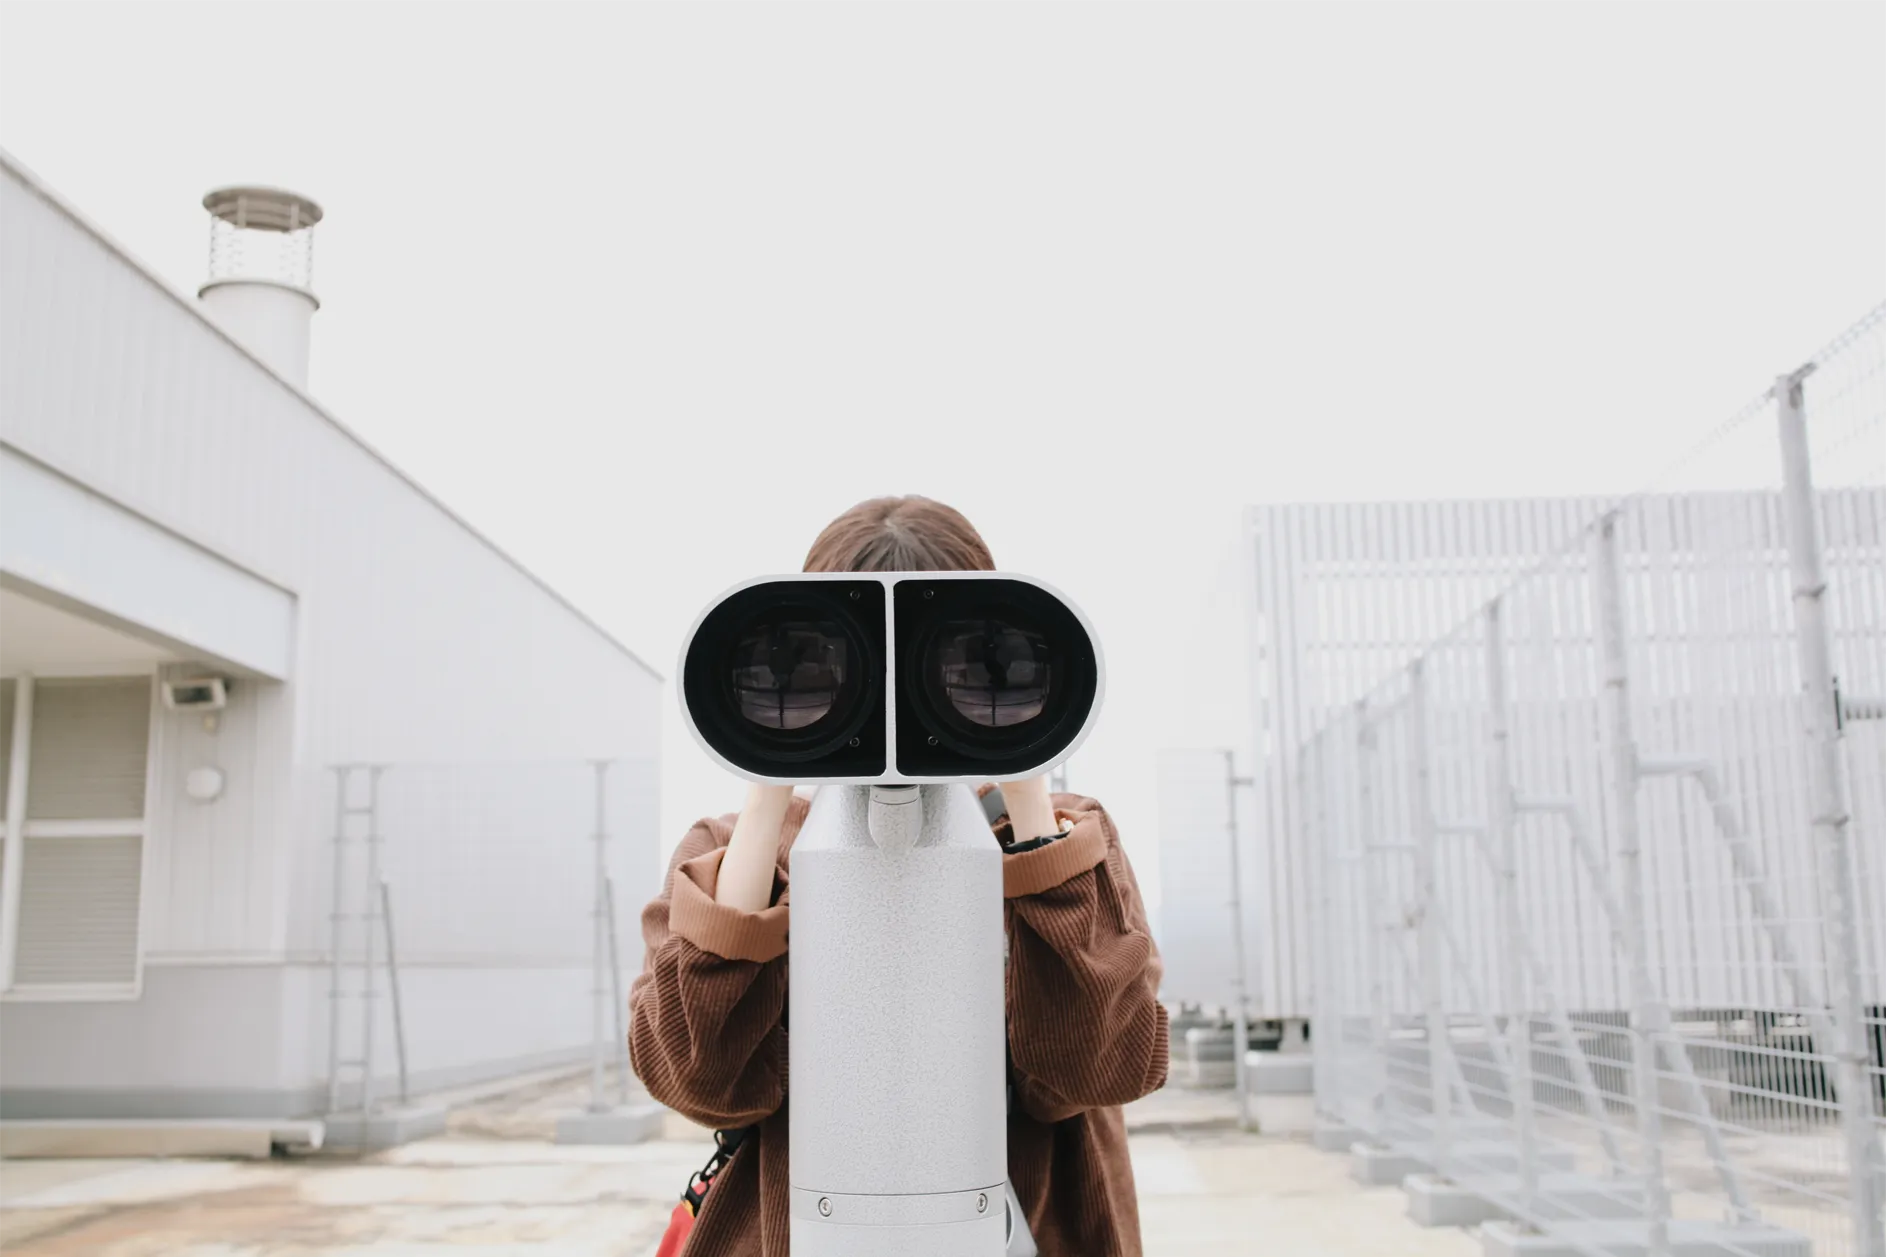
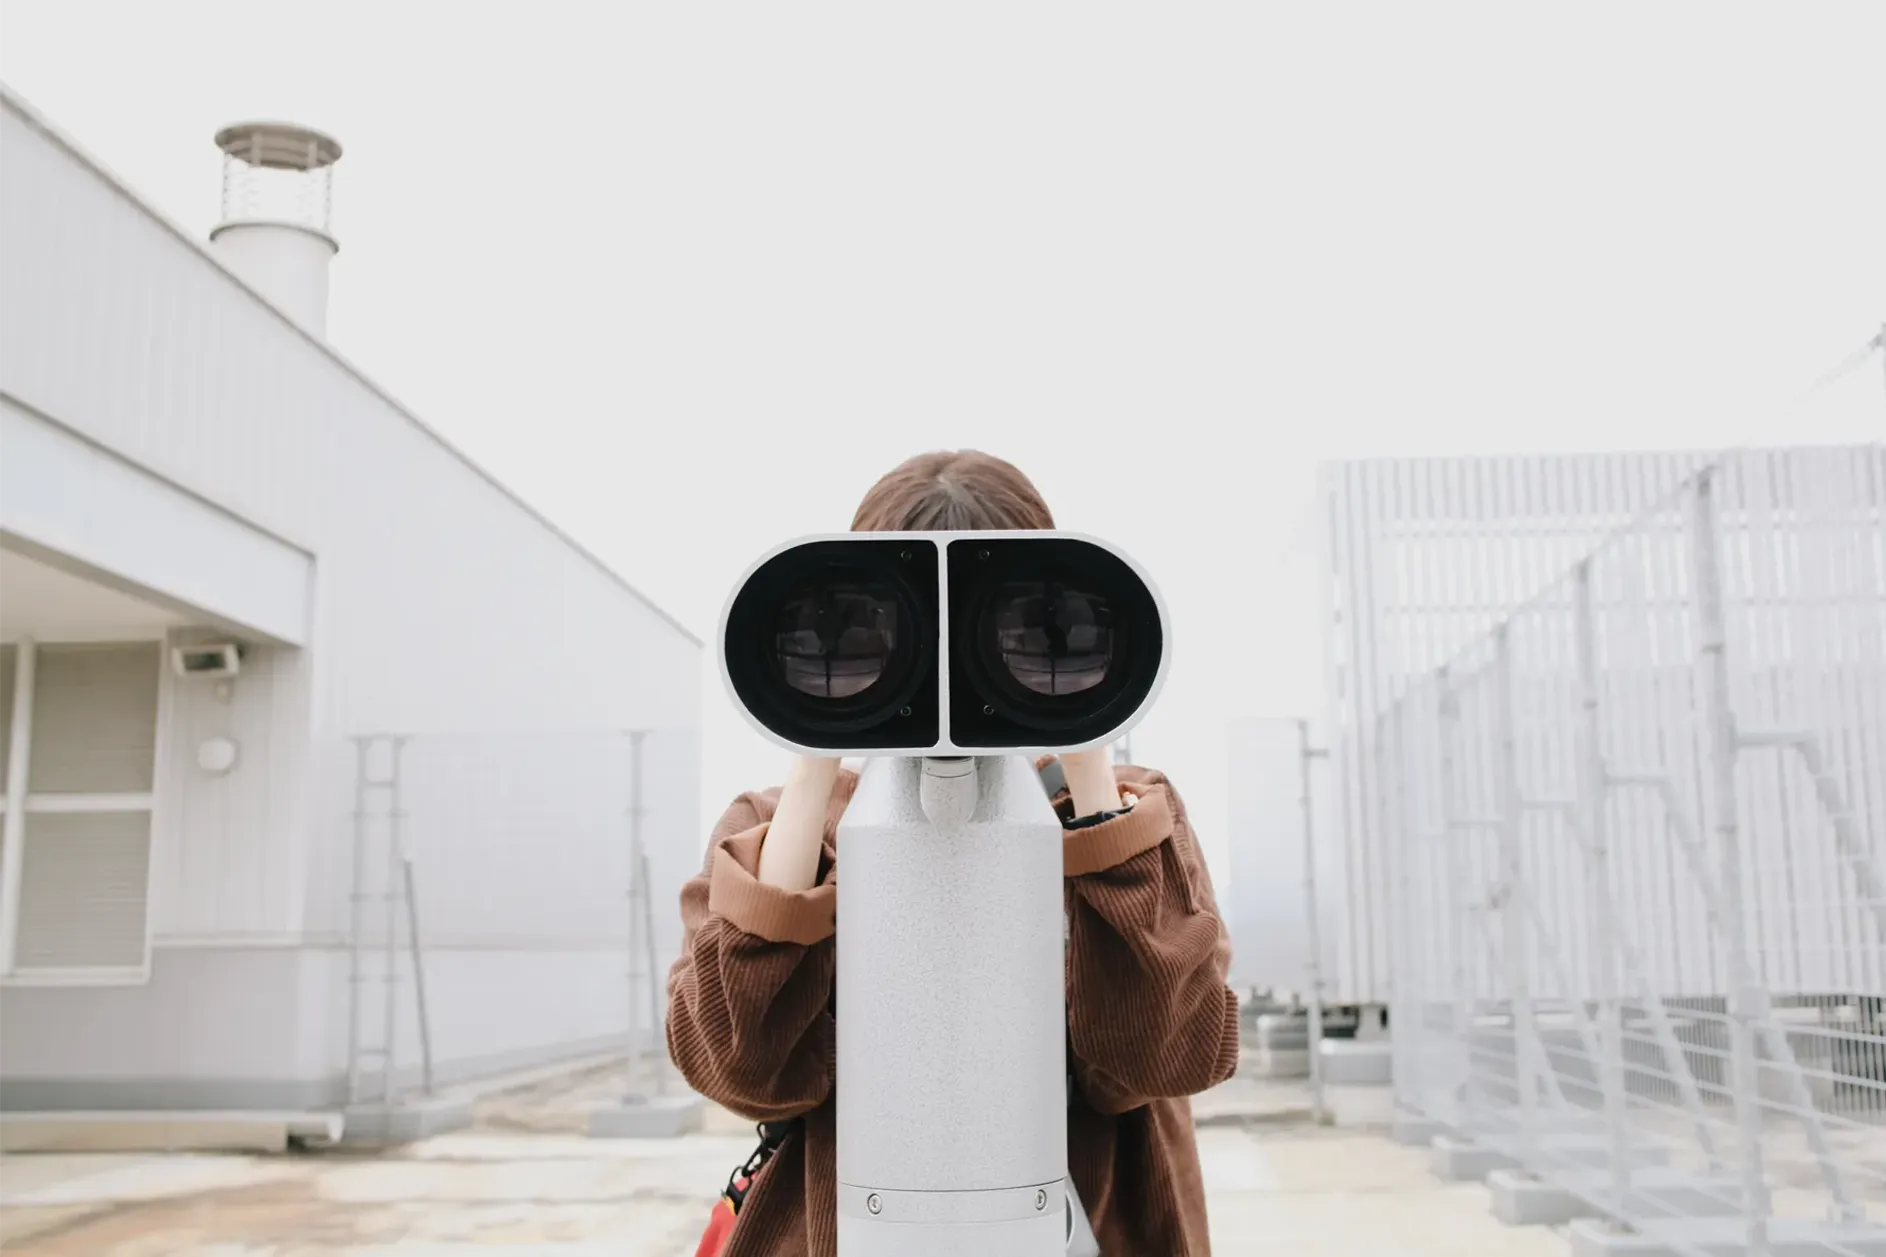
9/28

diff --git a/photo-site/portrait-sub.html b/photo-site/portrait-sub.html
@@ -3,13 +3,13 @@
 <head>
   <meta charset="utf-8">
   <meta name="viewport" content="width=device-width, initial-scale=1.0">
-  <meta name="description" content="町や自然などのスナップをまとめたページです。">
+  <meta name="description" content="ポートレートをまとめたページです。">
   <link rel="icon" href="img/logo.webp">
   <link href="https://fonts.googleapis.com/icon?family=Material+Icons+Outlined" rel="stylesheet">
   
-  <title>Snap | bito.photo</title>
+  <title>Portrait | bito.photo</title>
 
-  <!-- フォントの指定 -->
+   <!-- フォントの指定 -->
   <link rel="preconnect" href="https://fonts.googleapis.com">
   <link rel="preconnect" href="https://fonts.gstatic.com" crossorigin>
   <link href="https://fonts.googleapis.com/css2?family=Poppins:wght@400;500;700&family=Zen+Maru+Gothic:wght@400;500;700&display=swap" rel="stylesheet">
@@ -44,110 +44,136 @@
     <!-- メインコンテンツ -->
     <main class="content">
       <section class="photo-gallery container blur-in">
-        
-       
+
+    
+               <!-- 1 -->
         <div class="photo-grid grid-1col">
           <div class="photo-item">
-            <img src="img/snap/snap-01.webp" alt="スナップ写真1">
+            <img src="img/snb/portrait-01.webp" alt="写真1">
           </div>
         </div>
 
-        <div class="photo-grid grid-2col">
+  <!-- 14 かのこ-->
+     <div class="photo-grid grid-2col">
           <div class="photo-item">
-            <img src="img/snap/snap-02.webp" alt="スナップ写真2">
+            <img src="img/snb/portrait-26.webp" alt="写真1">
           </div>
           <div class="photo-item">
-            <img src="img/snap/snap-03.webp" alt="スナップ写真3">
-          </div>
-        </div>
-
-           <div class="photo-grid grid-1col">
-          <div class="photo-item">
-            <img src="img/snap/snap-04.webp" alt="スナップ写真4">
-          </div>
-        </div>
-         
-        <div class="photo-grid grid-1col">
-          <div class="photo-item">
-            <img src="img/snap/snap-05.webp" alt="スナップ写真5">
-          </div>
-        </div>
-
-        <div class="photo-grid grid-2col">
-          <div class="photo-item">
-            <img src="img/snap/snap-06.webp" alt="スナップ写真6">
-          </div>
-          <div class="photo-item">
-            <img src="img/snap/snap-07.webp" alt="スナップ写真7">
+            <img src="img/snb/portrait-27.webp" alt="写真2">
           </div>
         </div>
       
+<!-- 2 　けいたルーザー-->
         <div class="photo-grid grid-2col">
           <div class="photo-item">
-            <img src="img/snap/snap-08.webp" alt="スナップ写真8">
+            <img src="img/snb/portrait-05.webp" alt="写真1">
           </div>
           <div class="photo-item">
-            <img src="img/snap/snap-09.webp" alt="スナップ写真9">
+            <img src="img/snb/portrait-04.webp" alt="写真2">
           </div>
         </div>
-        
+         <!-- あきら桜子-->
         <div class="photo-grid grid-1col">
           <div class="photo-item">
-            <img src="img/snap/snap-10.webp" alt="スナップ写真10">
+            <img src="img/snb/portrait-09.webp" alt="写真1">
           </div>
         </div>
 
+
+        <!-- 桜子花 -->
+       <div class="photo-grid grid-2col">
+          <div class="photo-item">
+            <img src="img/snb/portrait-10.webp" alt="写真1">
+          </div>
+          <div class="photo-item">
+            <img src="img/snb/portrait-11.webp" alt="写真2">
+          </div>
+        </div>
+
+        <!-- さくらこみずべ -->
           <div class="photo-grid grid-1col">
           <div class="photo-item">
-            <img src="img/snap/snap-11.webp" alt="スナップ写真11">
-          </div>
-        </div>
-   
-        <div class="photo-grid grid-2col">
-          <div class="photo-item">
-            <img src="img/snap/snap-12.webp" alt="スナップ写真12">
-          </div>
-          <div class="photo-item">
-            <img src="img/snap/snap-13.webp" alt="スナップ写真13">
+            <img src="img/snb/portrait-12.webp" alt="写真1">
           </div>
         </div>
 
-             <div class="photo-grid grid-1col">
+       <div class="photo-grid grid-2col">
           <div class="photo-item">
-            <img src="img/snap/snap-14.webp" alt="スナップ写真18">
+            <img src="img/snb/portrait-13.webp" alt="写真1">
+          </div>
+          <div class="photo-item">
+            <img src="img/snb/portrait-14.webp" alt="写真2">
           </div>
         </div>
-         
-          <div class="photo-grid grid-2col">
+     <!-- かな紅葉 -->
+     <div class="photo-grid grid-2col">
           <div class="photo-item">
-            <img src="img/snap/snap-15.webp" alt="スナップ写真12">
+            <img src="img/snb/portrait-19.webp" alt="写真1">
           </div>
           <div class="photo-item">
-            <img src="img/snap/snap-16.webp" alt="スナップ写真13">
+            <img src="img/snb/portrait-20.webp" alt="写真2">
+          </div>
+        </div>
+         <!-- 田村さん-->
+        <div class="photo-grid grid-1col">
+          <div class="photo-item">
+            <img src="img/snb/portrait-15.webp" alt="写真1">
           </div>
         </div>
 
-             <div class="photo-grid grid-1col">
+<!-- 桜子みどり -->
+     <div class="photo-grid grid-2col">
           <div class="photo-item">
-            <img src="img/snap/snap-17.webp" alt="スナップ写真18">
+            <img src="img/snb/portrait-16.webp" alt="写真1">
+          </div>
+          <div class="photo-item">
+            <img src="img/snb/portrait-17.webp" alt="写真2">
           </div>
         </div>
-        
+ <!-- 眩しい顔-->
+        <div class="photo-grid grid-1col">
+          <div class="photo-item">
+            <img src="img/snb/portrait-18.webp" alt="写真1">
+          </div>
+        </div>
 
-        
-             <div class="photo-grid grid-1col">
+
+        <!-- けいた葛巻 -->
+     <div class="photo-grid grid-2col">
           <div class="photo-item">
-            <img src="img/snap/snap-18.webp" alt="スナップ写真18">
+            <img src="img/snb/portrait-22.webp" alt="写真1">
+          </div>
+          <div class="photo-item">
+            <img src="img/snb/portrait-23.webp" alt="写真2">
           </div>
         </div>
-        
-   
-   
+    <!-- なおきくん東京 -->
+     <div class="photo-grid grid-2col">
+          <div class="photo-item">
+            <img src="img/snb/portrait-24.webp" alt="写真1">
+          </div>
+          <div class="photo-item">
+            <img src="img/snb/portrait-25.webp" alt="写真2">
+          </div>
+        </div>
+           <!-- こーのすけぜん -->
+      <div class="photo-grid grid-1col">
+          <div class="photo-item">
+            <img src="img/snb/portrait-06.webp" alt="写真1">
+          </div>
+        </div>
+        <!-- 修平傘-->
+        <div class="photo-grid grid-1col">
+          <div class="photo-item">
+            <img src="img/snb/portrait-21.webp" alt="写真1">
+          </div>
+        </div>
+      
       </section>
 
       <!-- 戻るボタン -->
       <div class="back-btn-container">
-        <a href="gallery.html" class="back-btn">
+        <a href="portrait.html" class="back-btn">
           <span class="back-arrow">&larr;</span> Back
         </a>
       </div>

diff --git a/photo-site/css/page.css b/photo-site/css/page.css
@@ -51,7 +51,7 @@ ul {
 
 
 /* ----------
-   フェードインアニメーション
+    フェードインアニメーション
 ------------- */
 @keyframes blurIn {
   0% {
@@ -107,17 +107,57 @@ ul {
   object-fit: cover;
 }
 
-/* おまけテキスト部分 */
+/* ----------
+  View More ボタンエリア
+-------------*/
+.btn-container {
+  display: flex;
+  justify-content: center; /* 中央寄せ */
+  margin-top: 60px;        /* 上の写真との余白 */
+  margin-bottom: 60px;     /* 下との余白 */
+}
+
+.more-link-btn {
+  display: inline-flex;
+  align-items: center;
+  gap: 8px;
+  font-family: "Poppins", sans-serif;
+  font-size: 15px;
+  font-weight: 500;
+  letter-spacing: 0.08em;
+  color: #333333;
+  padding: 8px 16px;
+  border-bottom: 1px solid #333333; /* 下線をつけてボタンらしさを演出 */
+  transition: all 0.3s ease;
+}
+
+/* 矢印アイコンの装飾 */
+.more-link-btn .arrow {
+  font-size: 18px;
+  line-height: 1;
+  transition: transform 0.3s ease;
+}
+
+/* ホバー時の動き（Backボタンとは異なる、テキスト＋矢印の動き） */
+.more-link-btn:hover {
+  opacity: 0.6; /* 薄くなって押せる感が出る */
+}
+
+.more-link-btn:hover .arrow {
+  transform: translateX(5px); /* 矢印が右にすっと動く */
+}
+
+/* おまけテキスト・セクション部分 */
 .gallery-lead {
   text-align: center;
   font-size: 13px;
   line-height: 1.8;
-  margin: 40px auto 10px;
+  margin: 0 auto 10px;
   color: #333333;
   width: 100%;
 }
 .omake-section {
-  margin-top: 300px;
+  margin-top: 200px; /* おまけセクションをしっかり下へ配置 */
 }
 
 /* ----------
@@ -208,16 +248,25 @@ ul {
     grid-template-columns: repeat(2, 1fr);
   }
 
+  .btn-container {
+    margin-top: 40px;
+    margin-bottom: 40px;
+  }
+
+  .more-link-btn {
+    font-size: 13px;
+  }
+
   .back-btn-container {
     margin-top: 50px;
     margin-bottom: 40px;
   }
 
   .gallery-lead {
-    margin: 30px auto 12px;
+    margin: 0 auto 12px;
     font-size: 10px;
   }
-    .omake-section {
-    margin-top: 120px;
+  .omake-section {
+    margin-top: 100px; 
   }
 }

diff --git a/photo-site/portrait.html b/photo-site/portrait.html
@@ -171,9 +171,16 @@
           </div>
         </div>
 
+<!-- もっとみる -->
+<div class="btn-container">
+  <a href="portrait-sub.html" class="more-link-btn">
+    View More <span class="arrow">&rsaquo;&rsaquo;</span>
+  </a>
+</div>
+
         <!-- おまけ -->
-        <div class="omake-section">
-          <p class="gallery-lead">おまけ：逆に写真撮ってくれる人たち、かわいい</p>
+       <div class="omake-section">
+  <p class="gallery-lead">おまけ：逆に写真撮ってくれる人たち、かわいい</p>
           <div class="photo-grid grid-1col">
             <div class="photo-item">
               <img src="img/portrait/omake.webp" alt="おまけ写真">

diff --git a/photo-site/gallery.html b/photo-site/gallery.html
@@ -54,8 +54,8 @@
             <div class="gallery-text-box">
   <h2 class="gallery-title">Portrait</h2>
   <p class="gallery-text">散歩をしながら友人たちを撮影しています。<br>
-    忘れたくない、大切な時間の記録。<br>
-    また一緒に散歩しましょう。</p>
+    いろんな事を話した、大切な時間を<br>
+    忘れないための、記録です。</p>
 <span class="view-more">View More <span class="arrow">&rsaquo;&rsaquo;</span></span>
 </div>
           </a>

diff --git a/photo-site/index.html b/photo-site/index.html
@@ -191,9 +191,9 @@
         <p class="counter-label">COUNTER</p>
        
         <!-- FC2カウンター ここから -->
-    <!--  
+    
         <script src="//counter1.fc2.com/counter.php?id=41143325&main=1" defer></script><noscript><img src="//counter1.fc2.com/counter_img.php?id=41143325&main=1" /></noscript>
-       -->
+       
         <!-- FC2カウンター ここまで -->
       </div>
 
